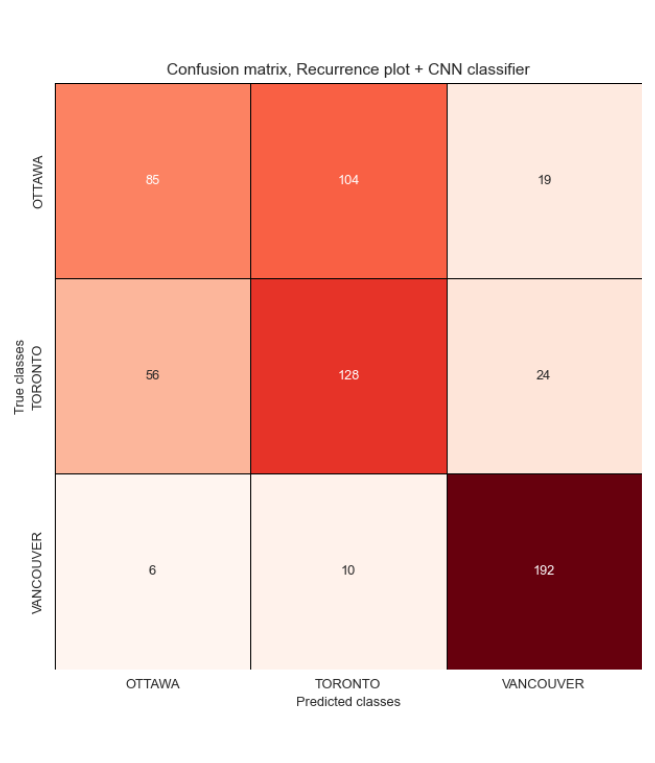
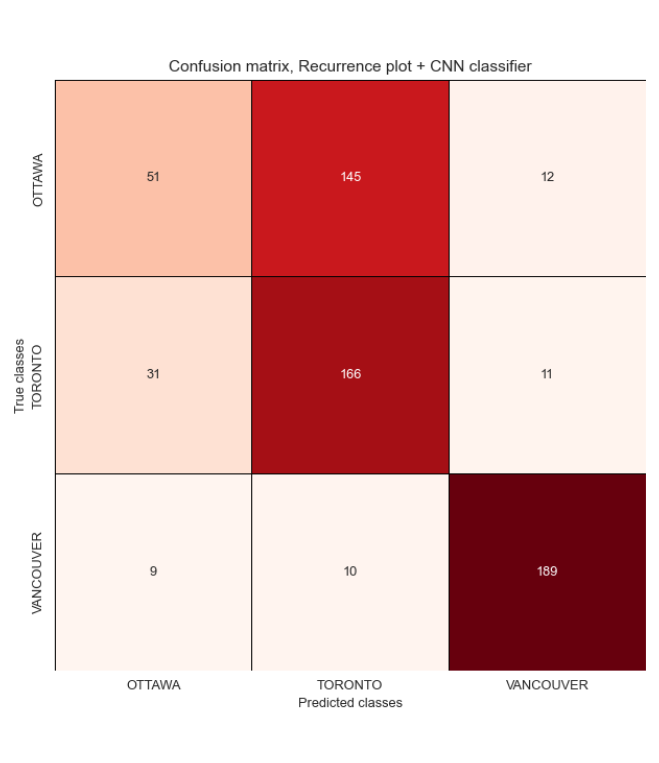
Modify CNN architecture to resemble NiN more closely

diff --git a/X_LightningClassesClassif.py b/X_LightningClassesClassif.py
@@ -57,42 +57,60 @@ class CNN(L.LightningModule):
     self.learning_rate = hyperparams_dict["learning_rate"]
     self.lr_decay = hyperparams_dict["lr_decay"]
 
-    # Define architecture 
+    # Define architecture (based on NiN architecture)
     self.network = torch.nn.Sequential(
+      
+      # Input dims: (N, 8, 28, 28)
   
-      # Convolutional block 1: Conv layer + SELU activation + max pooling
+      # Convolutional block 1: Main convolution of 11x11 + two 1x1 convs to add
+      # local non-linearity + max pooling
       torch.nn.Conv2d(
-        in_channels = self.input_channels, out_channels = 16, 
-        kernel_size = 11, padding = 5), 
-      torch.nn.SELU(),
-      torch.nn.MaxPool2d(kernel_size = 3, padding = 1, stride = 2),
-      # Output: (N, 16, 14, 14)
-  
-      # ConvBlock2
+            in_channels = self.input_channels, 
+            out_channels = 16, kernel_size = 11, padding = 5), torch.nn.SELU(),
       torch.nn.Conv2d(
-        in_channels = 16, out_channels = 32, kernel_size = 7, padding = 3), 
-      torch.nn.SELU(),
-      torch.nn.MaxPool2d(kernel_size = 3, padding = 1, stride = 2),
-      # Output: (N, 32, 7, 7)
-  
-      # ConvBlock3
+        in_channels = 16, out_channels = 16, kernel_size = 1), torch.nn.SELU(),
       torch.nn.Conv2d(
-        in_channels = 32, out_channels = 64, kernel_size = 5, padding = 2),
-      torch.nn.SELU(),
-      torch.nn.MaxPool2d(kernel_size = 3, padding = 1, stride = 2),
-      # Output: (N, 64, 4, 4)
-  
-      # ConvBlock4
+        in_channels = 16, out_channels = 16, kernel_size = 1), torch.nn.SELU(),
+      torch.nn.MaxPool2d(kernel_size = 3, stride = 2),
+      # Output dims: (N, 16, 13, 13)
+          
+      # Conv2: 7x7
       torch.nn.Conv2d(
-        in_channels = 64, out_channels = 3, kernel_size = 3, padding = 1),
-      torch.nn.SELU(),
-      torch.nn.MaxPool2d(kernel_size = 3, padding = 1, stride = 2),
-      # Output: (N, 3, 2, 2)
-  
-      # Global avg pooling + flatten
+        in_channels = 16, 
+        out_channels = 32, kernel_size = 7, padding = 3), torch.nn.SELU(),
+      torch.nn.Conv2d(
+        in_channels = 32, out_channels = 32, kernel_size = 1), torch.nn.SELU(),
+      torch.nn.Conv2d(
+        in_channels = 32, out_channels = 32, kernel_size = 1), torch.nn.SELU(),
+      torch.nn.MaxPool2d(kernel_size = 3, stride = 2),
+      # Output dims: (N, 32, 6, 6)
+      
+      # Conv3: 5x5
+      torch.nn.Conv2d(
+        in_channels = 32, 
+        out_channels = 64, kernel_size = 5, padding = 2), torch.nn.SELU(),
+      torch.nn.Conv2d(
+        in_channels = 64, out_channels = 64, kernel_size = 1), torch.nn.SELU(),
+      torch.nn.Conv2d(
+        in_channels = 64, out_channels = 64, kernel_size = 1), torch.nn.SELU(),
+      torch.nn.MaxPool2d(kernel_size = 3, stride = 1),
+      # Output dims: (N, 64, 4, 4)
+      
+      # Conv4: 3x3 (reduces channel size to n. of target classes)
+      torch.nn.Conv2d(
+        in_channels = 64, 
+        out_channels = 3, kernel_size = 3, padding = 2), torch.nn.SELU(),
+      torch.nn.Conv2d(
+        in_channels = 3, out_channels = 3, kernel_size = 1), torch.nn.SELU(),
+      torch.nn.Conv2d(
+        in_channels = 3, out_channels = 3, kernel_size = 1), torch.nn.SELU(),
+      torch.nn.MaxPool2d(kernel_size = 3, stride = 1),
+      # Output dims: (N, 3, 4, 4)
+      
+      # Global avg. pooling + flatten
       torch.nn.AdaptiveAvgPool2d(output_size = 1),
       torch.nn.Flatten()
-      # Output: (N, 3)
+      # Output dims: (N, 3)
     ) 
     
     # Loss function
@@ -102,6 +120,8 @@ class CNN(L.LightningModule):
     self.softmax = torch.nn.Softmax(dim = 1)
     
     # Initialize weights to conform with self-normalizing SELU activation
+    # Cannot use Lazy layers in model architecture because the layer shapes have to
+    # be determined before the weight initialization
     for layer in self.network:
       if isinstance(layer, torch.nn.Conv2d):
         torch.nn.init.kaiming_normal_(layer.weight, nonlinearity = "linear")
@@ -182,35 +202,47 @@ class OptunaPruning(PyTorchLightningPruningCallback, Callback):
 # x.shape
 # 
 # # NiN-like, 4 convolutional blocks, no dense layers
-# # Convolutions reduce dimensions from 28x28 to 2x2 (/14), increase channels from
+# # Convolutions reduce dimensions from 28x28 to 4x4, increase channels from
 # # 8 to 64 (8x).
 # network = torch.nn.Sequential(
-#   
+# 
 #   # Conv1
-#   torch.nn.Conv2d(in_channels = 8, out_channels = 16, kernel_size = 11, padding = 5), 
-#   torch.nn.SELU(),
-#   torch.nn.MaxPool2d(kernel_size = 3, padding = 1, stride = 2),
-#   
+#   torch.nn.Conv2d(
+#         in_channels = 8, out_channels = 16,
+#         kernel_size = 11, padding = 5), torch.nn.SELU(),
+#    torch.nn.LazyConv2d(out_channels = 16, kernel_size = 1), torch.nn.SELU(),
+#    torch.nn.LazyConv2d(out_channels = 16, kernel_size = 1), torch.nn.SELU(),
+#    torch.nn.MaxPool2d(kernel_size = 3, stride = 2),
+#   # Output dims: (N, 16, 13, 13)
+# 
 #   # Conv2
-#   torch.nn.Conv2d(in_channels = 16, out_channels = 32, kernel_size = 7, padding = 3),
-#   torch.nn.SELU(),
-#   torch.nn.MaxPool2d(kernel_size = 3, padding = 1, stride = 2),
+#   torch.nn.LazyConv2d(out_channels = 32, kernel_size = 7, padding = 3), torch.nn.SELU(),
+#   torch.nn.LazyConv2d(out_channels = 32, kernel_size = 1), torch.nn.SELU(),
+#   torch.nn.LazyConv2d(out_channels = 32, kernel_size = 1), torch.nn.SELU(),
+#   torch.nn.MaxPool2d(kernel_size = 3, stride = 2),
+#   # Output dims: (N, 32, 6, 6)
 # 
 #   # Conv3
-#   torch.nn.Conv2d(in_channels = 32, out_channels = 64, kernel_size = 5, padding = 2),
-#   torch.nn.SELU(),
-#   torch.nn.MaxPool2d(kernel_size = 3, padding = 1, stride = 2),
+#   torch.nn.LazyConv2d(out_channels = 64, kernel_size = 5, padding = 2), torch.nn.SELU(),
+#   torch.nn.LazyConv2d(out_channels = 64, kernel_size = 1), torch.nn.SELU(),
+#   torch.nn.LazyConv2d(out_channels = 64, kernel_size = 1), torch.nn.SELU(),
+#   torch.nn.MaxPool2d(kernel_size = 3, stride = 1),
+#   # Output dims: (N, 64, 4, 4)
 # 
-#   # Conv4
-#   torch.nn.Conv2d(in_channels = 64, out_channels = 3, kernel_size = 3, padding = 1),
-#   torch.nn.SELU(),
-#   torch.nn.MaxPool2d(kernel_size = 3, padding = 1, stride = 2),
+#   # Conv4 (reduces channel size to n. of target classes)
+#   torch.nn.LazyConv2d(out_channels = 3, kernel_size = 3, padding = 2), torch.nn.SELU(),
+#   torch.nn.LazyConv2d(out_channels = 3, kernel_size = 1), torch.nn.SELU(),
+#   torch.nn.LazyConv2d(out_channels = 3, kernel_size = 1), torch.nn.SELU(),
+#   torch.nn.MaxPool2d(kernel_size = 3, stride = 1),
+#   # Output dims: (N, 3, 4, 4)
 # 
-#   # # Global avg pooling + flatten, output of logits
-#   # torch.nn.AdaptiveAvgPool2d(1),
-#   # torch.nn.Flatten(),
-#   # # torch.nn.Softmax(dim = 1)
-# ) 
+#   # Global avg. pooling + flatten
+#   torch.nn.AdaptiveAvgPool2d(output_size = 1),
+#   #torch.nn.Flatten()
+#   # Output dims: (N, 3)
+# )
+# 
+# 
 # 
 # # Test run
 # network(x)

diff --git a/ScriptsClassification/2.4_CNN.py b/ScriptsClassification/2.4_CNN.py
@@ -38,7 +38,7 @@ val_data = TrainDataset(x_val, y_val)
 
 # Create dataloaders
 tr_loader = torch.utils.data.DataLoader(
-  train_data, batch_size = 128, num_workers = 0, shuffle = True)
+  tr_data, batch_size = 128, num_workers = 0, shuffle = True)
 val_loader = torch.utils.data.DataLoader(
   val_data, batch_size = len(val_data), num_workers = 0, shuffle = False)
 
@@ -73,7 +73,6 @@ study_cnn = optuna.create_study(
   study_name = "tune_cnn",
   direction = "minimize"
 )
-
 
 # Instantiate objective
 obj = lambda trial: objective_cnn(trial, tr_loader, val_loader)
@@ -141,11 +140,11 @@ preds_cnn = classes[np.argmax(probs_cnn, axis = 1)]
 
 # Accuracy
 accuracy_score(classes[np.argmax(y_test, axis = 1)], preds_cnn) 
-# 0.6490384615384616
+# 0.6506410256410257
 
 # Log loss
 log_loss(y_test, probs_cnn) 
-# 0.685978013122983
+# 0.6747596099550004
 
 
 # Plot confusion matrix
